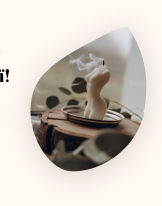
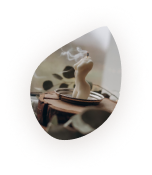
end of header block layout

diff --git a/index.html b/index.html
@@ -67,11 +67,59 @@
           <picture class="top__img">
             <source
               class="top__img-m"
+              srcset="images/top-s.png"
+              media="(max-width:360px)"
+            />
+            <source
+              class="top__img-m"
               srcset="images/top-m.png"
               media="(max-width:480px)"
             />
             <img class="top__img-l" src="images/top-l.png" alt="images" />
           </picture>
+        </div>
+      </section>
+      <section class="about">
+        <div class="container about__inner">
+          <div class="about__content">
+            <h2 class="about__title">Про нас</h2>
+            <p class="about__text">
+              Богдан творець бренду який завжди зацікавлений у виготовленні
+              різноманітних речей вдома. Він регулярно експериментував з різними
+              матеріалами та інструментами, спробувавши свої сили у багатьох
+              галузях, включаючи виготовлення свічок.
+            </p>
+            <p class="about__text">
+              Ссоєвий віск виготовляють із соєвих бобів, що зрощуються в Данії,
+              і цей вид воску є екологічно чистим та безпечним для здоров'я.
+            </p>
+          </div>
+          <ul class="about__list">
+            <li class="about__item">
+              <img
+                class="about__item-img"
+                src="images/about-1.jpg"
+                alt="images-about"
+              />
+              <p class="about__item-text">Насолоджуйтеся моментом</p>
+            </li>
+            <li class="about__item">
+              <img
+                class="about__item-img"
+                src="images/about-2.png"
+                alt="images-about"
+              />
+              <p class="about__item-text">Створіть улюблену атмосферу</p>
+            </li>
+            <li class="about__item">
+              <img
+                class="about__item-img"
+                src="images/about-3.jpg"
+                alt="images-about> "
+              />
+              <p class="about__item-text">Виготовлені з любов'ю</p>
+            </li>
+          </ul>
         </div>
       </section>
     </main>

diff --git a/css/style.css b/css/style.css
@@ -250,26 +250,46 @@ button {
   }
 }
 @media (max-width: 480px) {
-  .top{
+  .top {
     padding: 30px 0 50px;
   }
-  .top__content{
+  .top__content {
     width: 180px;
   }
-  .top__title{
+  .top__title {
     font-size: 15px;
     margin-bottom: 15px;
   }
-  .top__text{
+  .top__text {
     font-size: 8px;
     margin-bottom: 15px;
   }
-  .top__buy{
+  .top__buy {
     padding: 14px 41px;
     font-size: 10px;
   }
   .top__img-l {
     width: 309px;
     left: 167px;
+  }
+}
+@media (max-width: 480px) {
+  .top__content {
+    width: 200px;
+    padding: 20px 0 0;
+  }
+  .top__title {
+    font-size: 18px;
+  }
+  .top__text {
+    font-size: 10px;
+  }
+  .top__img {
+    left: auto;
+    right: 0;
+  }
+  .top__img-l {
+    width: 185px;
+    height: 200px;
   }
 }
